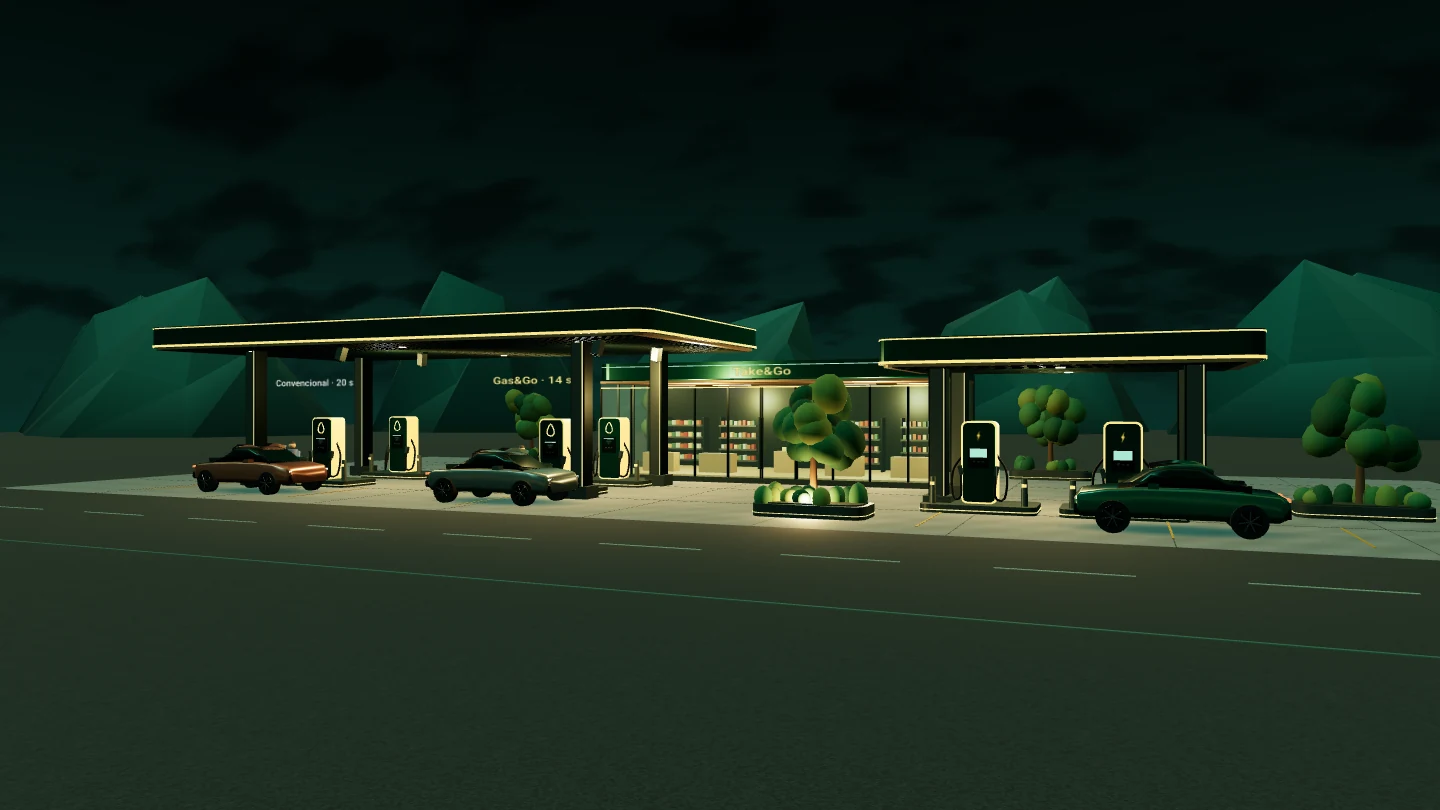
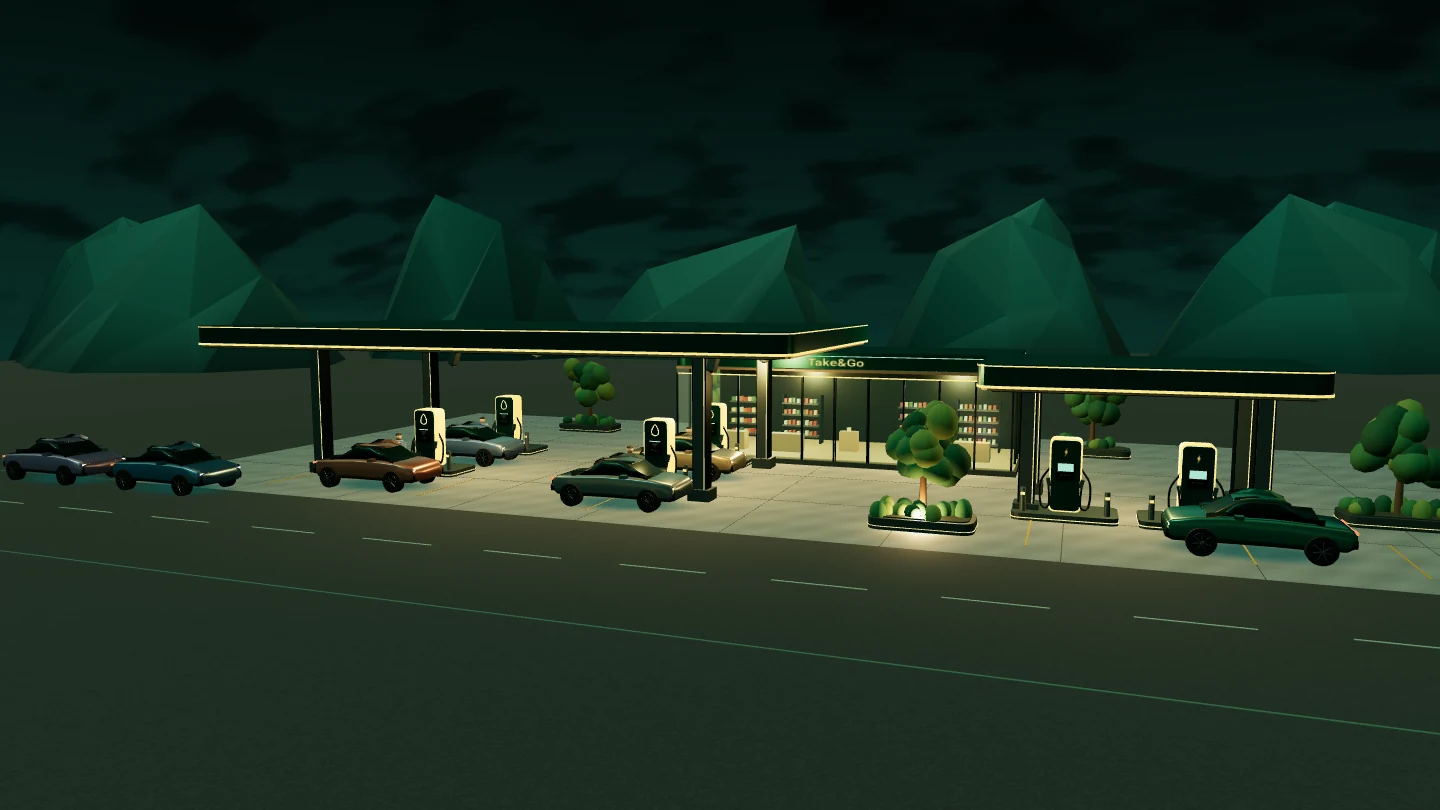
Animate queues and circular refuelling progress indicators

Changed region(s): [[0.0, 0.2469, 1.0, 0.7407], [0.8438, 0.7716, 0.875, 0.8025], [0.6875, 0.7407, 0.7188, 0.7716]]

diff --git a/assets/scene/activity.js b/assets/scene/activity.js
@@ -1,10 +1,10 @@
 import * as T from './vendor/three.module.min.js';
 import { box, group, materials as m, mesh, standard, tube } from './model.js';
 import { vehicle } from './vehicles.js';
-import { chargingBay, fuelBays, fuelStopOffset, fuelX, refuellingDemo } from './layout.js';
+import { refuellingCounter } from './refuelling-counter.js';
+import { chargingBay, fuelBays, fuelStopOffset, fuelX, refuellingDemo, rearFuelBays } from './layout.js';
 
 const path = points => new T.CatmullRomCurve3(points.map(([x, z, y = 0]) => new T.Vector3(x, y, z)));
-const clamp = T.MathUtils.clamp;
 const ease = (from, to, time) => T.MathUtils.smoothstep(time, from, to);
 const point = new T.Vector3();
 const direction = new T.Vector3();
@@ -61,46 +61,64 @@ function walk(person, route, t, forward, elapsed, moving = true) {
   }
 }
 
-function refuellingVisit(actors, bay, duration, paint, jacket, extraChecks = 0) {
+const fuelPhaseOffset = 15;
+const cycleSeconds = 88;
+const frontArrival = 11;
+const queueRelease = frontArrival + refuellingDemo.gasGoSeconds + 4;
+
+function refuellingVisit(actors, {
+  bay, duration, paint, jacket, gasGo = false, arrive = frontArrival, queued = false,
+}) {
   const car = vehicle(actors, 0, 0, paint);
+  car.name = queued ? `Queue: ${gasGo ? "Gas&Go" : "conventional"}` : `Pump: ${bay.z < 0 ? "rear" : "front"} ${bay.x}`;
   const driver = person(actors, jacket);
+  const counter = refuellingCounter(car, gasGo);
   const pumpX = fuelX(bay.x);
   const pumpZ = bay.z;
   const stopZ = pumpZ + fuelStopOffset;
-  const parkedAt = 11;
-  const leavesAt = parkedAt + duration;
+  const rear = pumpZ < 0;
+  const leavesAt = arrive + duration;
   const exitsAt = leavesAt + 14;
-  const connectAt = parkedAt + 4.1 + extraChecks;
-  const disconnectAt = connectAt + 5.7;
+  const connectAt = arrive + (gasGo ? 4.1 : 8.1);
+  const disconnectAt = leavesAt - (gasGo ? 4.2 : 5.7);
   const entersCarAt = leavesAt - .5;
 
-  const enter = path([
-    [pumpX - 40, 10.4], [pumpX - 28, 10.4], [pumpX - 20, 7.1],
-    [pumpX - 12, stopZ], [pumpX - 5, stopZ], [pumpX, stopZ],
-  ]);
-  const exit = path([
-    [pumpX, stopZ], [pumpX + 2.35, stopZ], [pumpX + 5.7, 7.5],
-    [pumpX + 10.7, 10.4], [pumpX + 18, 10.4], [43, 10.4],
-  ]);
+  const regularEntry = rear
+    ? [[pumpX - 40, 2.7], [pumpX - 25, 2.7], [pumpX - 15, 1.9], [pumpX - 9, stopZ], [pumpX, stopZ]]
+    : [[pumpX - 40, 10.4], [pumpX - 28, 10.4], [pumpX - 20, 7.1], [pumpX - 12, stopZ], [pumpX - 5, stopZ], [pumpX, stopZ]];
+  const waitX = gasGo ? -19.5 : -25.5;
+  const waitZ = 7.8;
+  const enter = path(queued ? [[waitX - 43.5, 10.4], [waitX - 22, 10.2], [waitX - 9, waitZ], [waitX, waitZ]] : regularEntry);
+  const queueMovesAt = gasGo ? queueRelease : frontArrival + refuellingDemo.conventionalSeconds + 7;
+  const advance = queued ? path(gasGo
+    ? [[waitX, waitZ], [-15.2, waitZ], [-10.8, 6.7], [-8.15, stopZ], [pumpX, stopZ]]
+    : [[waitX, waitZ], [-22, waitZ], [-19.4, 5.7], [-17.8, stopZ], [pumpX, stopZ]]) : null;
+  const exit = path(rear
+    ? [[pumpX, stopZ], [pumpX + 2.65, stopZ - 1.1], [pumpX + 6.9, -3.92], [10, -4.45], [23, -4.45], [43, -4.45]]
+    : [[pumpX, stopZ], [pumpX + 2.35, stopZ], [pumpX + 5.7, 7.5], [pumpX + 10.7, 10.4], [pumpX + 18, 10.4], [43, 10.4]]);
   const toPump = path([[pumpX + .38, stopZ - 1.19], [pumpX - .36, pumpZ + 1.91], [pumpX - .69, pumpZ + 1.17]]);
   const hose = tube(actors, m.rubber, [[pumpX - .46, 1.65, pumpZ + .08],
     [pumpX - .66, .38, pumpZ + .54], [pumpX - .94, .31, pumpZ + 1.27],
     [pumpX - 1.38, .55, stopZ - 1.16], [pumpX - 1.52, .93, stopZ - .97]], .037);
 
   return phase => {
-    if (phase < parkedAt) drive(car, enter, ease(0, parkedAt, phase));
-    else if (phase < leavesAt) drive(car, enter, 1);
-    else drive(car, exit, ease(leavesAt, exitsAt, phase));
-    car.visible = phase < exitsAt;
-
-    driver.actor.visible = phase >= parkedAt + 1 && phase < entersCarAt;
+    if (phase < arrive) {
+      if (queued && phase >= queueMovesAt) drive(car, advance, ease(queueMovesAt, arrive, phase));
+      else drive(car, enter, queued ? ease(3, 17, phase) : ease(0, frontArrival, phase));
+    } else if (phase < leavesAt) {
+      drive(car, advance || enter, 1);
+    } else {
+      drive(car, exit, ease(leavesAt, exitsAt, phase));
+    }
+    car.visible = phase < exitsAt && (!queued || phase >= 3);
+    counter(phase >= arrive && phase < leavesAt, (phase - arrive) / duration);
+    driver.actor.visible = phase >= arrive + 1 && phase < entersCarAt;
     hose.visible = phase >= connectAt && phase < disconnectAt;
     if (driver.actor.visible) {
-      const atPump = parkedAt + 4.1;
-      const returning = phase >= disconnectAt + extraChecks / 2;
+      const returning = phase >= disconnectAt;
       const progress = returning
-        ? 1 - ease(disconnectAt + extraChecks / 2, entersCarAt, phase)
-        : ease(parkedAt + 1, atPump, phase);
+        ? 1 - ease(disconnectAt, entersCarAt, phase)
+        : ease(arrive + 1, arrive + 4.1, phase);
       walk(driver, toPump, progress, !returning, phase, progress > 0 && progress < 1);
       if (hose.visible) driver.arms[1].rotation.x = -.72;
     }
@@ -110,9 +128,16 @@ function refuellingVisit(actors, bay, duration, paint, jacket, extraChecks = 0) 
 export function stationActivity(scene, market) {
   const actors = group(scene, 0, 0, 0);
   actors.userData.ignorePick = true;
-  const gasGo = refuellingVisit(actors, fuelBays.right, refuellingDemo.gasGoSeconds, 0x66736b, 0xd3a33b);
-  const conventional = refuellingVisit(actors, fuelBays.left, refuellingDemo.conventionalSeconds, 0x9b644e, 0x808ba1, 4);
+  const visits = [
+    { bay: fuelBays.right, duration: refuellingDemo.gasGoSeconds, paint: 0x66736b, jacket: 0xd3a33b, gasGo: true },
+    { bay: fuelBays.left, duration: refuellingDemo.conventionalSeconds, paint: 0x9b644e, jacket: 0x808ba1 },
+    { bay: rearFuelBays.right, duration: 29, paint: 0x9f8b62, jacket: 0x8d5141 },
+    { bay: rearFuelBays.left, duration: 36, paint: 0x687d95, jacket: 0x6e8b58 },
+    { bay: fuelBays.right, duration: refuellingDemo.gasGoSeconds, paint: 0x456d81, jacket: 0xcda662, gasGo: true, queued: true, arrive: 33.5 },
+    { bay: fuelBays.left, duration: refuellingDemo.conventionalSeconds, paint: 0x80758e, jacket: 0x5b8392, queued: true, arrive: 46 },
+  ].map(config => refuellingVisit(actors, config));
   const visitor = vehicle(actors, 0, 0, 0x7799a3);
+  visitor.name = "Take&Go visitor";
   const shopper = person(actors, 0xb16045);
   const visitIn = path([[39, 14], [23, 14], [10, 13.6], [4.6, 10.8], [2.05, 7.2], [2.05, 1.2]]);
   const visitReverse = path([[2.05, 1.2], [2.05, 4.9], [2.05, 7.1], [1.45, 8.5], [.3, 8.7]]);
@@ -120,6 +145,7 @@ export function stationActivity(scene, market) {
   const toShop = path([[.88, 1.05], [.52, -.7], [.52, -3.5], [.5, -5.46], [.5, -6.09, .28], [.5, -8.12, .28]]);
 
   const electric = vehicle(actors, 0, 0, 0x146853, true);
+  electric.name = "Electric";
   const chargeStopX = chargingBay.x + 1.25;
   const chargeStopZ = chargingBay.z + 2.93;
   const chargeIn = path([[43, 9.4], [29, 9.4], [23, 8.2], [19.8, 5.15], [17.5, chargeStopZ], [chargeStopX, chargeStopZ]]);
@@ -133,16 +159,15 @@ export function stationActivity(scene, market) {
   ], .044);
 
   function update(elapsed) {
-    const t = elapsed % 66;
-    const f = (elapsed + 15) % 66;
-    const charge = (elapsed + 16) % 66;
+    const t = elapsed % cycleSeconds;
+    const f = (elapsed + fuelPhaseOffset) % cycleSeconds;
+    const charge = (elapsed + 16) % cycleSeconds;
     if (charge < 12) drive(electric, chargeIn, ease(0, 12, charge));
     else if (charge < 43) drive(electric, chargeIn, 1);
     else drive(electric, chargeOut, ease(43, 55, charge));
     electric.visible = charge < 55;
     chargeCable.visible = charge >= 13 && charge < 42;
-    gasGo(f);
-    conventional(f);
+    for (const visit of visits) visit(f);
 
     if (t < 12) drive(visitor, visitIn, ease(0, 12, t));
     else if (t < 42) drive(visitor, visitIn, 1);

diff --git a/assets/scene/services.js b/assets/scene/services.js
@@ -9,7 +9,7 @@ export const services = [
     anchor: [fuelX(fuelBays.left.x + fuelCameraOffset.x), fuelCameraOffset.y + .14, fuelBays.left.z + fuelCameraOffset.z + .35],
     target: [fuelX(fuelBays.left.x + fuelCameraOffset.x), fuelCameraOffset.y - .12, fuelBays.left.z + fuelCameraOffset.z],
     angle: [2.8, -1.8, 8.4],
-    poster: [.23207, .43139],
+    poster: [.311559, .438410],
   },
   {
     name: 'Autorización y pago automático',
@@ -17,12 +17,12 @@ export const services = [
     benefit: 'Sigue tu viaje y consulta después cuánto has gastado.',
     detail: 'Puedes consultar y descargar facturas desde el historial. El prototipo también recoge ideas de fidelización y comunicación de incidencias. Los cobros y las facturas son ficticios.',
     anchor: [fuelX(fuelBays.left.x), 3.02, fuelBays.left.z + .38], target: [fuelX(fuelBays.left.x), 1.55, fuelBays.left.z + .17], angle: [3, 2.4, 9],
-    poster: [.22331, .50432],
+    poster: [.294064, .495226],
   },
   {
     name: 'Repostaje inteligente',
     description: 'La aplicación detecta el surtidor y te ofrece varias formas de autorizarlo. Cuando queda habilitado, utilizas la manguera para repostar.',
-    detail: `En la animación, ambos coches paran a la vez. La parada convencional dura ${refuellingDemo.conventionalSeconds} s y la de Gas&Go, ${refuellingDemo.gasGoSeconds} s. La comparación representa el objetivo del 30 % de ahorro. En una parada orientativa de 5 min, equivaldría a 3 min y 30 s. El ahorro quedó sin validar en el prototipo.`,
+    detail: `En la animación, ambos coches paran a la vez. La parada convencional dura ${refuellingDemo.conventionalSeconds} s y la de Gas&Go, ${refuellingDemo.gasGoSeconds} s. El primer coche de la cola ocupa el hueco de Gas&Go mientras los surtidores de atrás siguen ocupados. La comparación representa el objetivo del 30 % de ahorro. En una parada orientativa de 5 min, equivaldría a 3 min y 30 s. El ahorro quedó sin validar en el prototipo.`,
     benefit: 'Puedes elegir cómo autorizar el surtidor según lo que necesites.',
     methods: [
       'A. Autorización automática mediante BLE, UWB y token seguro.',
@@ -30,7 +30,7 @@ export const services = [
       'C. Alternativa mediante NFC o QR dinámico.',
     ],
     anchor: [fuelX(fuelBays.right.x), 3.02, fuelBays.right.z + .38], target: [fuelX(fuelBays.right.x), 1.55, fuelBays.right.z + .17], angle: [1.5, 2.2, 9],
-    poster: [.38268, .50461],
+    poster: [.455002, .506750],
   },
   {
     name: 'Take&Go',
@@ -38,7 +38,7 @@ export const services = [
     benefit: 'Una parada para comprar sin pasar por una caja convencional.',
     detail: 'Take&Go forma parte de la visión del proyecto. El pago de tienda quedó fuera del prototipo V1.',
     anchor: [3.65, 5.2, -5.6], target: [.5, 2.2, -5.95], angle: [1.4, 2.6, 10],
-    poster: [.581, .43468],
+    poster: [.631292, .429572],
   },
   {
     name: 'Recarga eléctrica',
@@ -46,6 +46,6 @@ export const services = [
     benefit: 'Puedes planificar dónde cargar y cuánto podría durar la parada.',
     detail: 'El prototipo simula el suministro eléctrico. El tiempo estimado depende de la potencia del conector y de los kWh seleccionados.',
     anchor: [13.9, 3.1, 1.75], target: [13.1, 1.55, 1.6], angle: [4.7, 2.6, 8.4],
-    poster: [.77983, .50180],
+    poster: [.833509, .532875],
   },
 ];

diff --git a/assets/scene/station.js b/assets/scene/station.js
@@ -1,26 +1,26 @@
 import * as T from './vendor/three.module.min.js';
 import { OrbitControls } from './vendor/OrbitControls.js';
-import { canopy, canopyCamera, dispenser, group, label, market } from './model.js';
+import { canopy, canopyCamera, dispenser, group, market } from './model.js';
 import { environment, lighting, sky, studioReflections } from './environment.js';
 import { stationActivity } from './activity.js';
 import { services } from './services.js';
-import { chargingBay, fuelBays, fuelOffsetX, fuelX, refuellingDemo } from './layout.js';
+import { chargingBay, fuelBays, fuelCanopy, fuelOffsetX, fuelX, rearFuelBays } from './layout.js';
 
 function buildStation(scene) {
   const forecourt = group(scene, fuelOffsetX, 0, 0);
-  canopy(forecourt, -6.9, -.5, 21.7, 10.1, 5.76);
+  const { x, z, width, depth, height } = fuelCanopy;
+  canopy(forecourt, x, z, width, depth, height);
   canopy(scene, 12.25, -.65, 10.2, 6.8, 4.72);
   const left = dispenser(forecourt, fuelBays.left.x, fuelBays.left.z);
   left.userData.zone = 1;
   const right = dispenser(forecourt, fuelBays.right.x, fuelBays.right.z);
-  label(forecourt, `Convencional · ${refuellingDemo.conventionalSeconds} s`, fuelBays.left.x, 3.98, 2.05, 4.1, .62, '#ecf5ed');
-  label(forecourt, `Gas&Go · ${refuellingDemo.gasGoSeconds} s`, fuelBays.right.x - .45, 3.98, 2.05, 3.55, .62);
   const leftCamera = canopyCamera(forecourt, fuelBays.left.x, fuelBays.left.z);
   leftCamera.userData.zone = 0;
   canopyCamera(forecourt, fuelBays.right.x, fuelBays.right.z);
-  for (const bay of Object.values(fuelBays)) {
-    dispenser(forecourt, bay.x, -3.05);
-    canopyCamera(forecourt, bay.x, -3.05);
+  for (const bay of Object.values(rearFuelBays)) {
+    const rear = dispenser(forecourt, bay.x, bay.z);
+    delete rear.userData.zone;
+    canopyCamera(forecourt, bay.x, bay.z);
   }
   dispenser(scene, 10, 1.35, true);
   const charge = dispenser(scene, chargingBay.x, chargingBay.z, true);
@@ -64,10 +64,13 @@ export function mountStation(view, handlers, motion) {
   controls.autoRotateSpeed = .22;
   controls.minTargetRadius = 0;
 
-  const initialTarget = new T.Vector3(1.1, 3.15, 0);
-  const initialPosition = new T.Vector3(14, 3.1, 31);
+  const initialTarget = new T.Vector3(-2.65, 3.15, 0);
+  const initialPosition = new T.Vector3(10.25, 7.15, 35.2);
   const solidVolumes = [
-    new T.Box3(new T.Vector3(fuelX(-18.2), 5.17, -5.98), new T.Vector3(fuelX(4.4), 6.55, 5.05)),
+    new T.Box3(
+      new T.Vector3(fuelX(fuelCanopy.x - fuelCanopy.width / 2) - .4, 5.17, fuelCanopy.z - fuelCanopy.depth / 2 - .4),
+      new T.Vector3(fuelX(fuelCanopy.x + fuelCanopy.width / 2) + .4, 6.55, fuelCanopy.z + fuelCanopy.depth / 2 + .4),
+    ),
     new T.Box3(new T.Vector3(6.7, 4.12, -4.45), new T.Vector3(17.8, 5.48, 3.15)),
     new T.Box3(new T.Vector3(-7.25, 0, -12.25), new T.Vector3(8.25, 5.16, -5.6)),
   ];

diff --git a/assets/scene/refuelling-counter.js b/assets/scene/refuelling-counter.js
@@ -1,0 +1,46 @@
+import * as T from './vendor/three.module.min.js';
+
+export function refuellingCounter(car, gasGo) {
+  const canvas = document.createElement('canvas');
+  canvas.width = canvas.height = 192;
+  const ctx = canvas.getContext('2d');
+  const texture = new T.CanvasTexture(canvas);
+  texture.colorSpace = T.SRGBColorSpace;
+  const material = new T.SpriteMaterial({ map: texture, transparent: true, depthWrite: false, toneMapped: false });
+  const sprite = new T.Sprite(material);
+  sprite.name = 'Refuelling progress';
+  sprite.position.y = 2.76;
+  sprite.scale.set(2.14, 2.14, 1);
+  car.add(sprite);
+  let previous = -1;
+
+  return (visible, fraction) => {
+    sprite.visible = visible;
+    if (!visible) return;
+    const progress = Math.round(T.MathUtils.clamp(fraction, 0, 1) * 64);
+    if (progress === previous) return;
+    previous = progress;
+
+    ctx.clearRect(0, 0, 192, 192);
+    ctx.beginPath();
+    ctx.arc(96, 96, 85, 0, Math.PI * 2);
+    ctx.fillStyle = '#062b24';
+    ctx.fill();
+    ctx.lineWidth = 13;
+    ctx.strokeStyle = '#53736b';
+    ctx.stroke();
+    if (progress) {
+      ctx.beginPath();
+      ctx.arc(96, 96, 85, -Math.PI / 2, -Math.PI / 2 + Math.PI * 2 * progress / 64);
+      ctx.strokeStyle = gasGo ? '#fcda2f' : '#ecf5ed';
+      ctx.lineCap = 'round';
+      ctx.stroke();
+    }
+    ctx.fillStyle = '#ecf5ed';
+    ctx.font = '700 24px Roboto, sans-serif';
+    ctx.textAlign = 'center';
+    ctx.textBaseline = 'middle';
+    ctx.fillText(gasGo ? 'Con Gas&Go' : 'Convencional', 96, 96, 148);
+    texture.needsUpdate = true;
+  };
+}

diff --git a/assets/scene/layout.js b/assets/scene/layout.js
@@ -16,3 +16,10 @@ export const refuellingDemo = {
   conventionalSeconds,
   gasGoSeconds: Math.round(conventionalSeconds * .7),
 };
+
+export const rearFuelBays = {
+  left: { x: fuelBays.left.x, z: -4.75 },
+  right: { x: fuelBays.right.x, z: -4.75 },
+};
+
+export const fuelCanopy = { x: -7.4, z: -.85, width: 25, depth: 12.7, height: 5.76 };
